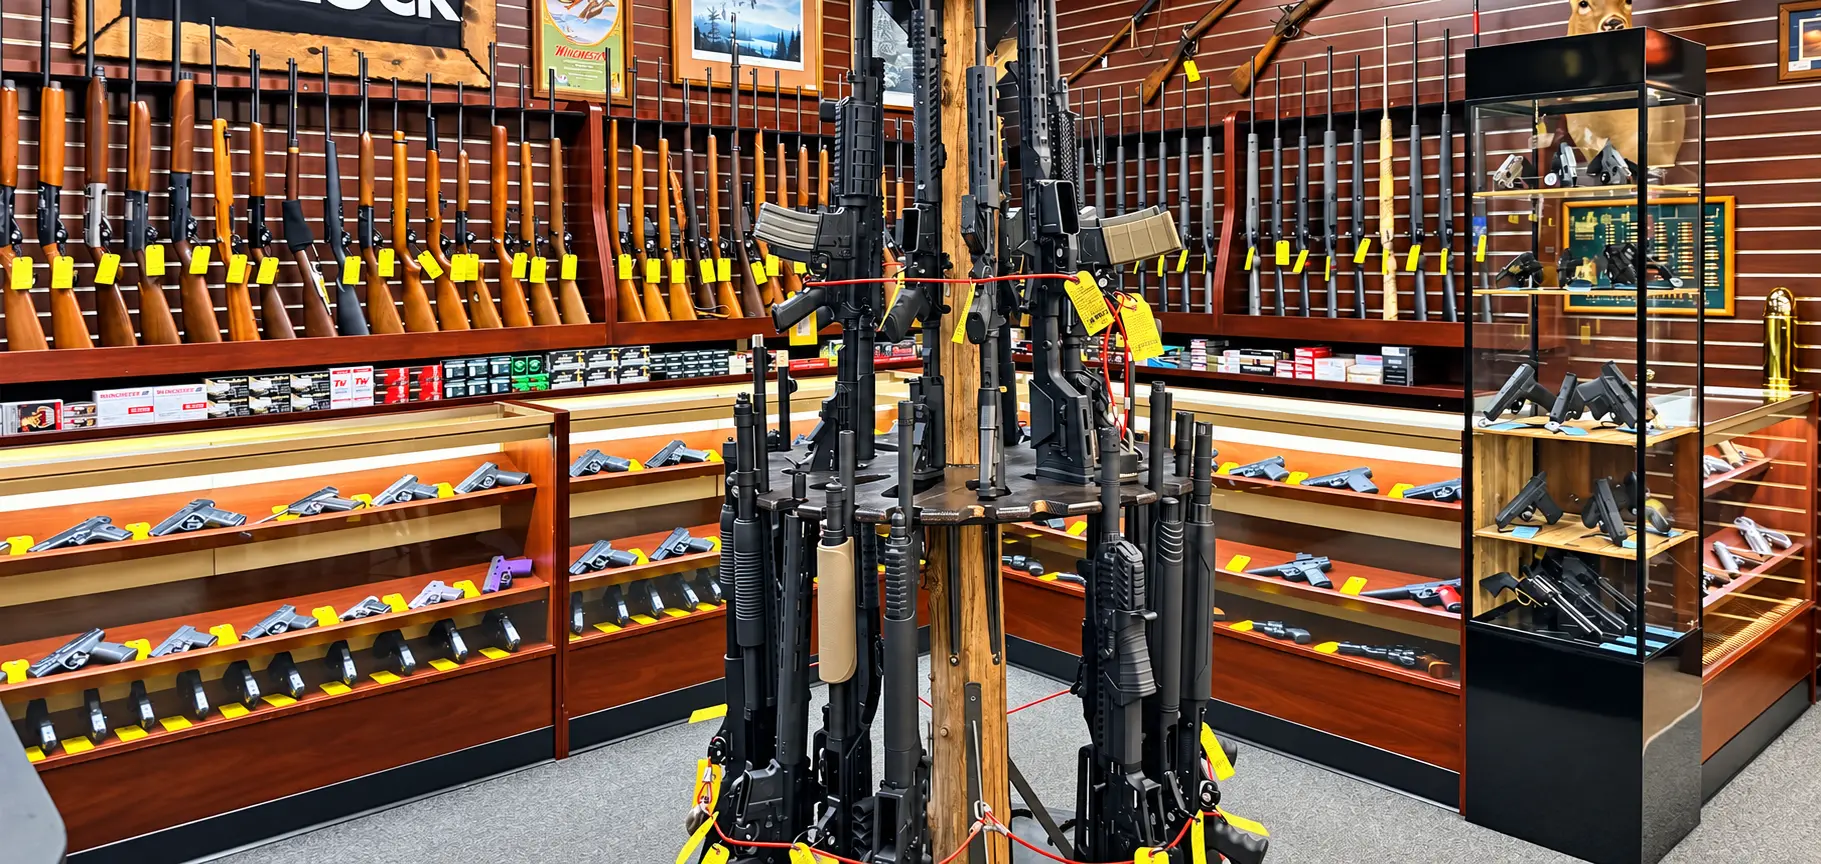
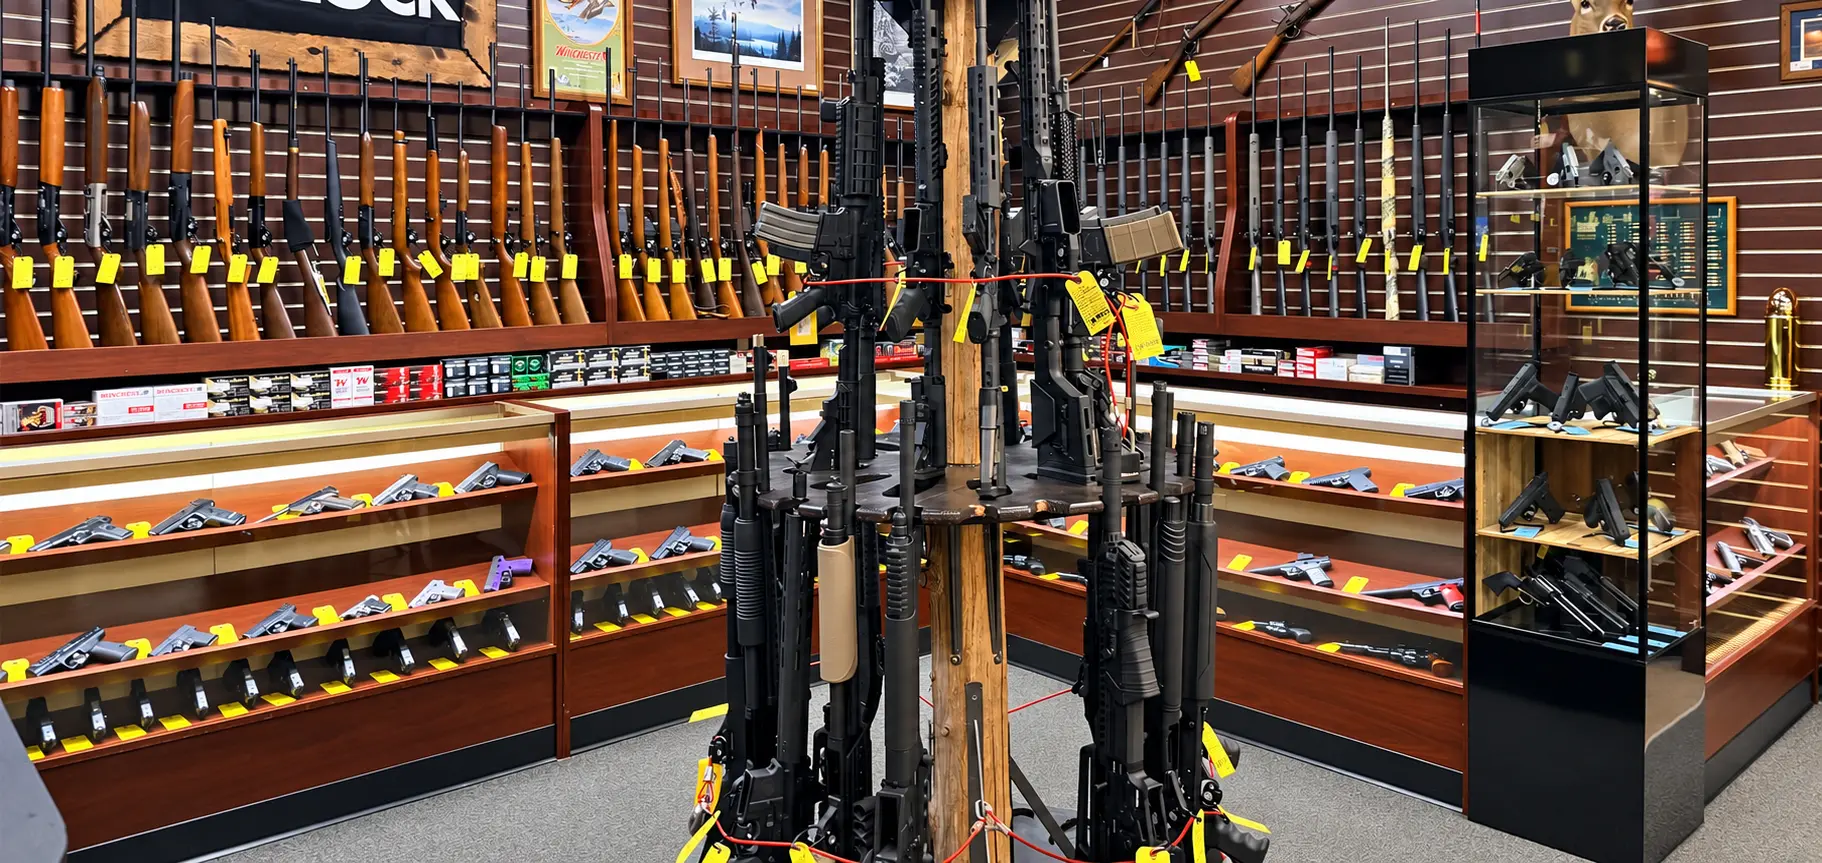
feat: new home hero (Hero 2) with 40% overlay; replace Guns & Rifles vault card image

diff --git a/index.html b/index.html
@@ -770,7 +770,7 @@
 
     <section class="relative min-h-[70vh] flex items-center blueprint-grid overflow-hidden" aria-label="Homepage hero">
       <img src="images/home-page-hero.webp" alt="Interior of Twin Cities Gun & Pawn — hundreds of firearms in stock in the Twin Cities" class="absolute inset-0 w-full h-full object-cover" fetchpriority="high" />
-      <div class="absolute inset-0" style="background:rgba(0,0,0,0.70)"></div>
+      <div class="absolute inset-0" style="background:rgba(0,0,0,0.40)"></div>
       <div class="relative max-w-[1360px] mx-auto px-6 lg:px-margin py-24 w-full">
         <div class="inline-flex items-center font-mono text-[11px] font-bold tracking-widest uppercase mb-4 px-3 py-1.5" style="background:#facc15;color:#000000">Twin Cities Gun &amp; Pawns</div>
         <h1 class="font-headline font-bold text-display-hero-mobile md:text-display-hero text-on-surface">Gun &amp; Firearms Pawn Shop &mdash; Buy &amp; Sell Guns, Rifles &amp; Shotguns in Minnesota</h1>

diff --git a/build_pages.py b/build_pages.py
@@ -111,7 +111,7 @@ def page_index():
     hero = """
     <section class="relative min-h-[70vh] flex items-center blueprint-grid overflow-hidden" aria-label="Homepage hero">
       <img src="images/home-page-hero.webp" alt="Interior of Twin Cities Gun & Pawn — hundreds of firearms in stock in the Twin Cities" class="absolute inset-0 w-full h-full object-cover" fetchpriority="high" />
-      <div class="absolute inset-0" style="background:rgba(0,0,0,0.70)"></div>
+      <div class="absolute inset-0" style="background:rgba(0,0,0,0.40)"></div>
       <div class="relative max-w-[1360px] mx-auto px-6 lg:px-margin py-24 w-full">
         {label}
         <h1 class="font-headline font-bold text-display-hero-mobile md:text-display-hero text-on-surface">Gun &amp; Firearms Pawn Shop &mdash; Buy &amp; Sell Guns, Rifles &amp; Shotguns in Minnesota</h1>
